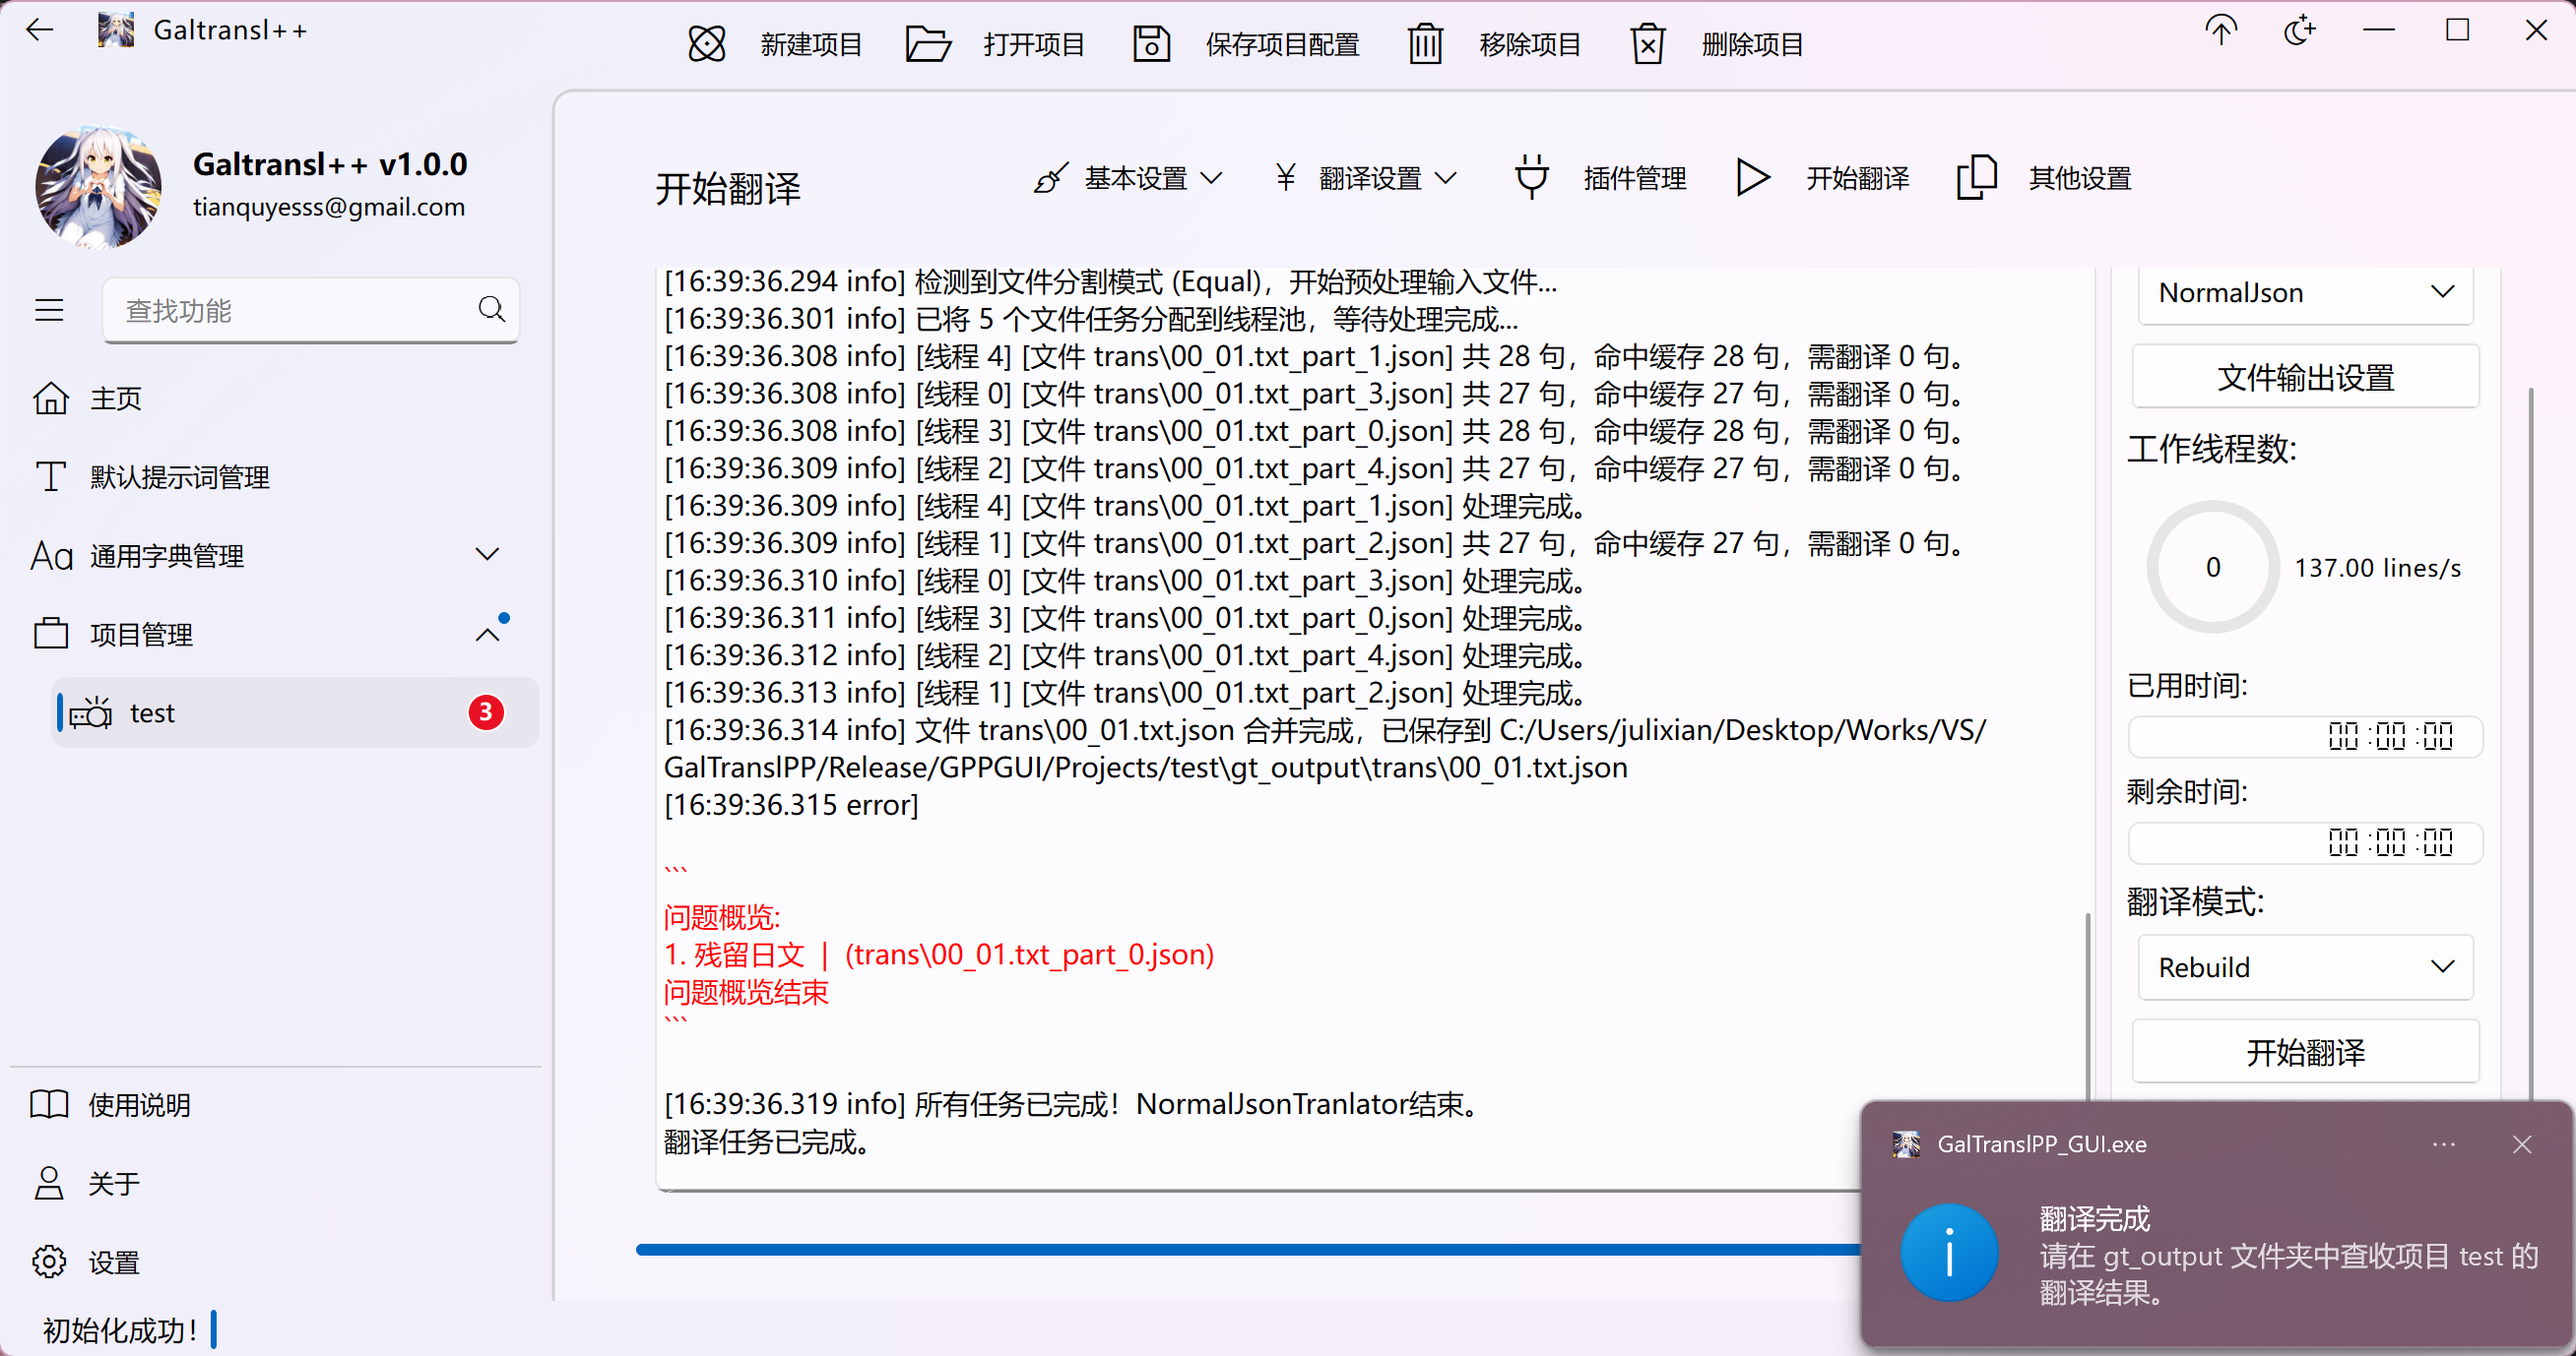
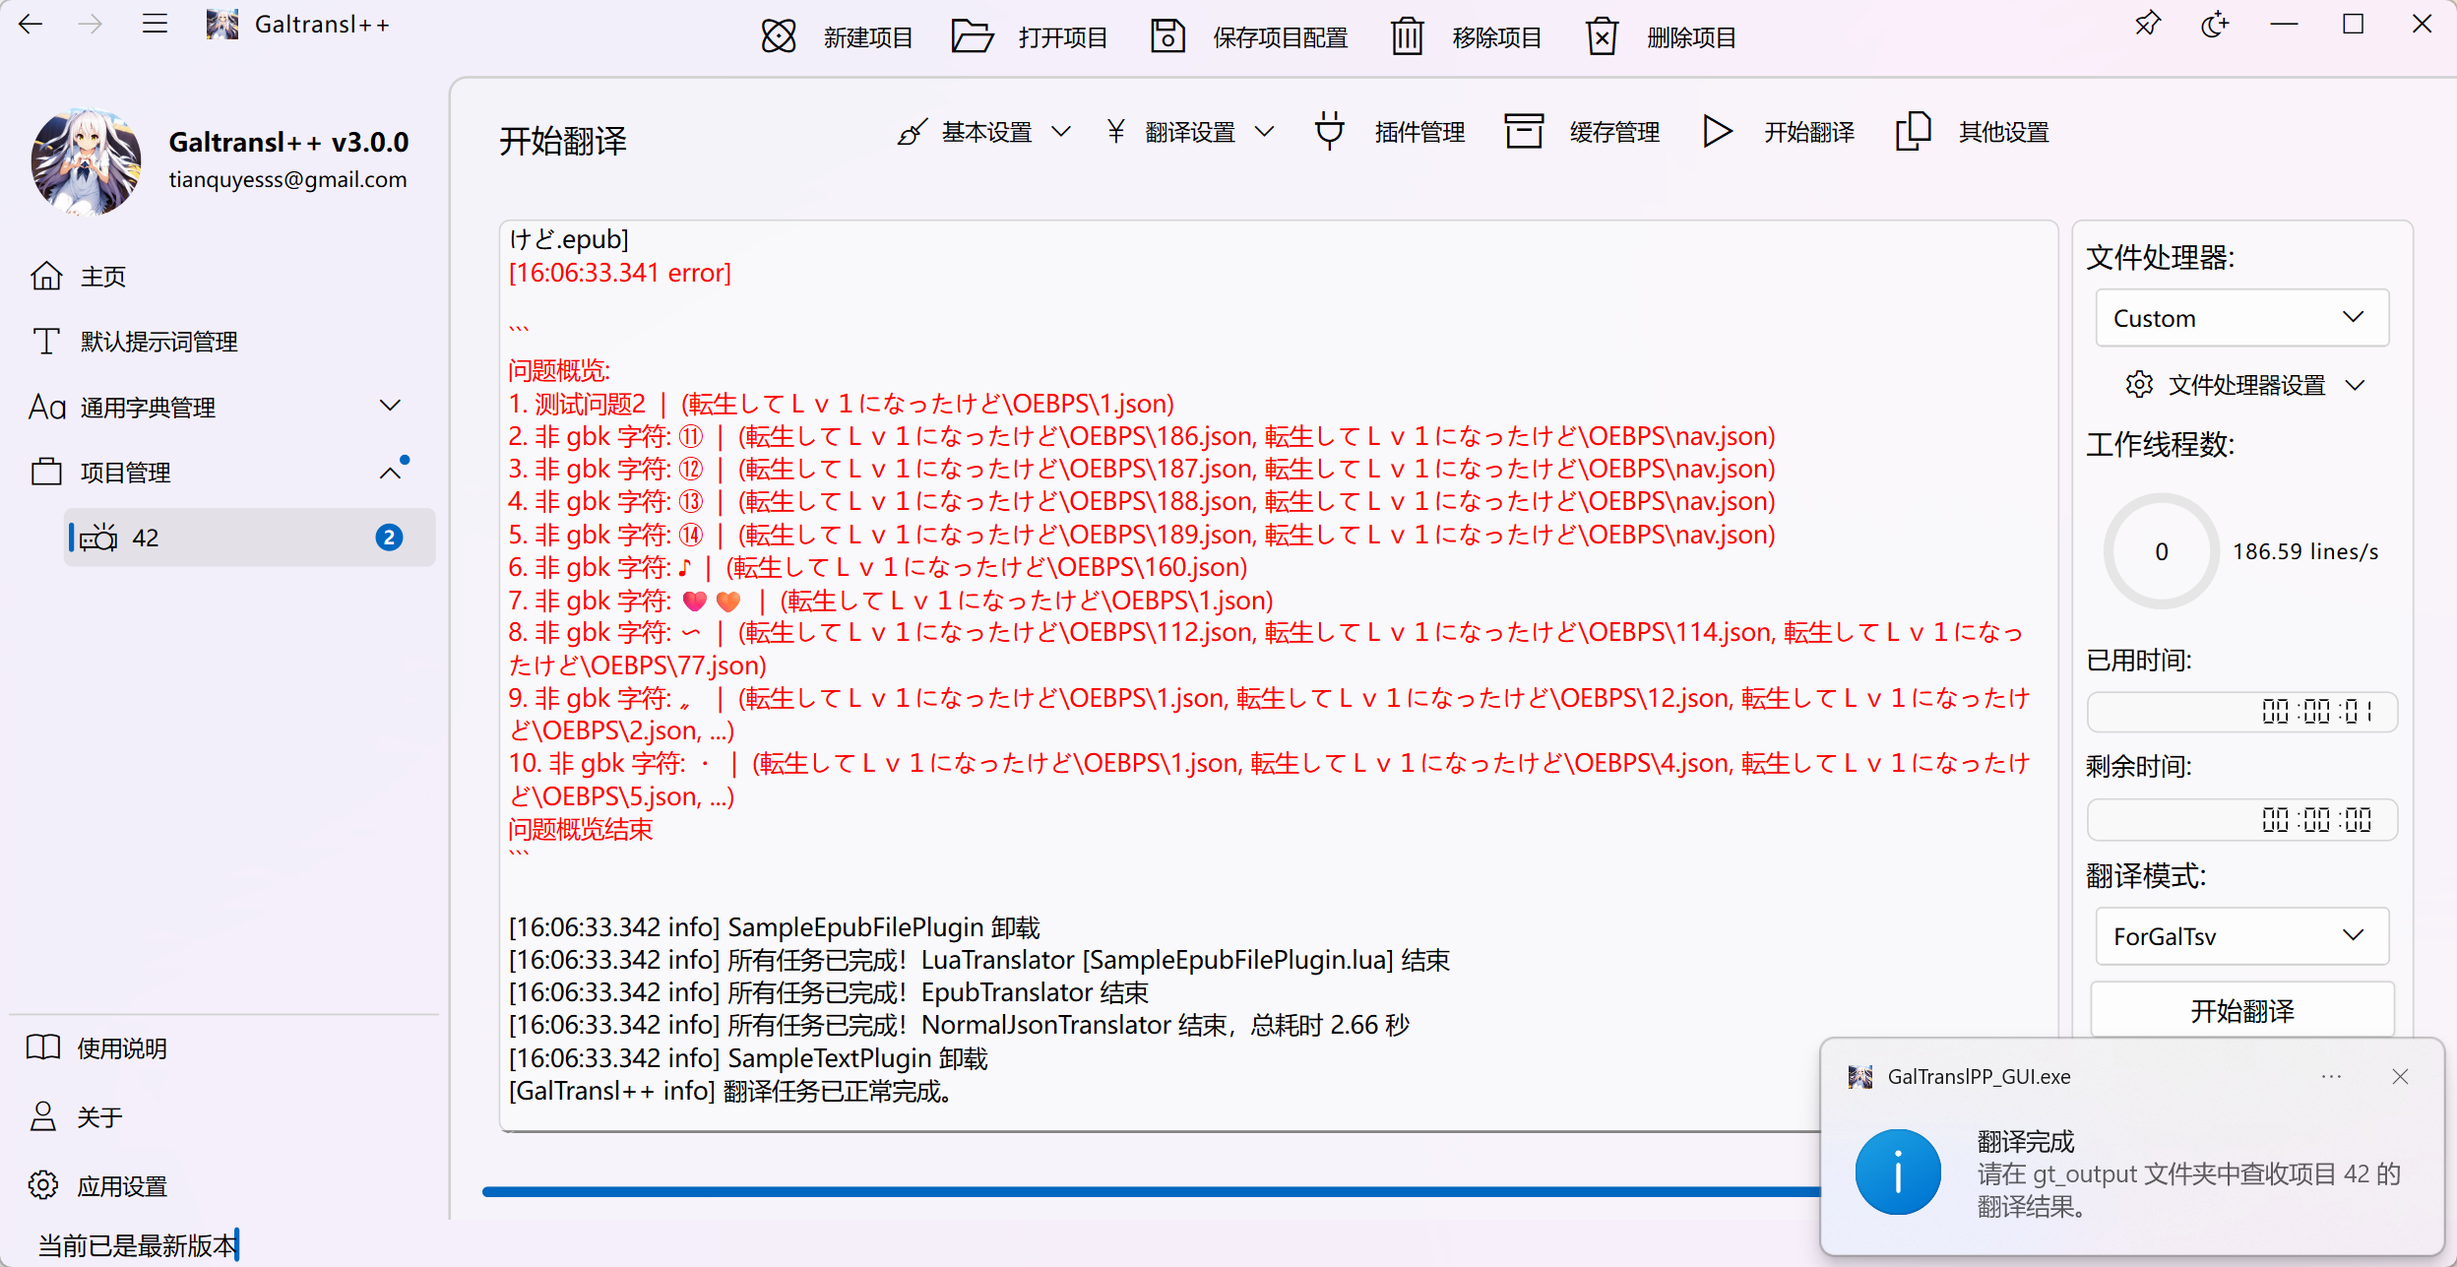
修正概览高亮

diff --git a/GPPGUI/qt_gppgui_en.ts b/GPPGUI/qt_gppgui_en.ts
@@ -4048,13 +4048,13 @@ Cache: %4</translation>
 <context>
     <name>StartSettingsPage</name>
     <message>
-        <location filename="StartSettingsPage.cpp" line="+366"/>
+        <location filename="StartSettingsPage.cpp" line="+365"/>
         <location line="+46"/>
         <source>回到底部并继续输出</source>
         <translation>Back to bottom and resume</translation>
     </message>
     <message>
-        <location line="-376"/>
+        <location line="-375"/>
         <source>启动设置</source>
         <translation>Start settings</translation>
     </message>
@@ -4075,7 +4075,6 @@ Issue summary:</translation>
     </message>
     <message>
         <location line="+57"/>
-        <location line="+1"/>
         <source>问题概览结束
 ```</source>
         <translation>Issue summary end
@@ -4140,12 +4139,12 @@ Issue summary:</translation>
         <translation>Details</translation>
     </message>
     <message>
-        <location line="-473"/>
+        <location line="-472"/>
         <source>翻译中</source>
         <translation>Translating</translation>
     </message>
     <message>
-        <location line="+333"/>
+        <location line="+332"/>
         <source>文件处理器:</source>
         <translation>File plugin:</translation>
     </message>

diff --git a/GPPGUI/StartSettingsPage.cpp b/GPPGUI/StartSettingsPage.cpp
@@ -274,15 +274,14 @@ void StartSettingsPage::appendLogChunkToView(const QString& log)
 
 		static const QString problemOverviewQStr1 = tr("```\n问题概览:");
 		static const QString problemOverviewQStr2 = tr("问题概览结束\n```");
-		static const QString problemOverviewQStr3 = tr("问题概览结束\n```");
 		if (log.contains(problemOverviewQStr1)) {
 			QString logCopy = log;
-			int index = log.indexOf(problemOverviewQStr2);
+			int index = log.indexOf(problemOverviewQStr1);
 			QString pre = logCopy.left(index);
 			logCopy = logCopy.mid(index);
-			index = logCopy.indexOf(problemOverviewQStr3);
-			QString overview = logCopy.left(index + problemOverviewQStr3.length());
-			logCopy = logCopy.mid(index + problemOverviewQStr3.length());
+			index = logCopy.indexOf(problemOverviewQStr2);
+			QString overview = logCopy.left(index + problemOverviewQStr2.length());
+			logCopy = logCopy.mid(index + problemOverviewQStr2.length());
 			QString post = std::move(logCopy);
 			processLogFunc(pre);
 			QTextCharFormat format;
